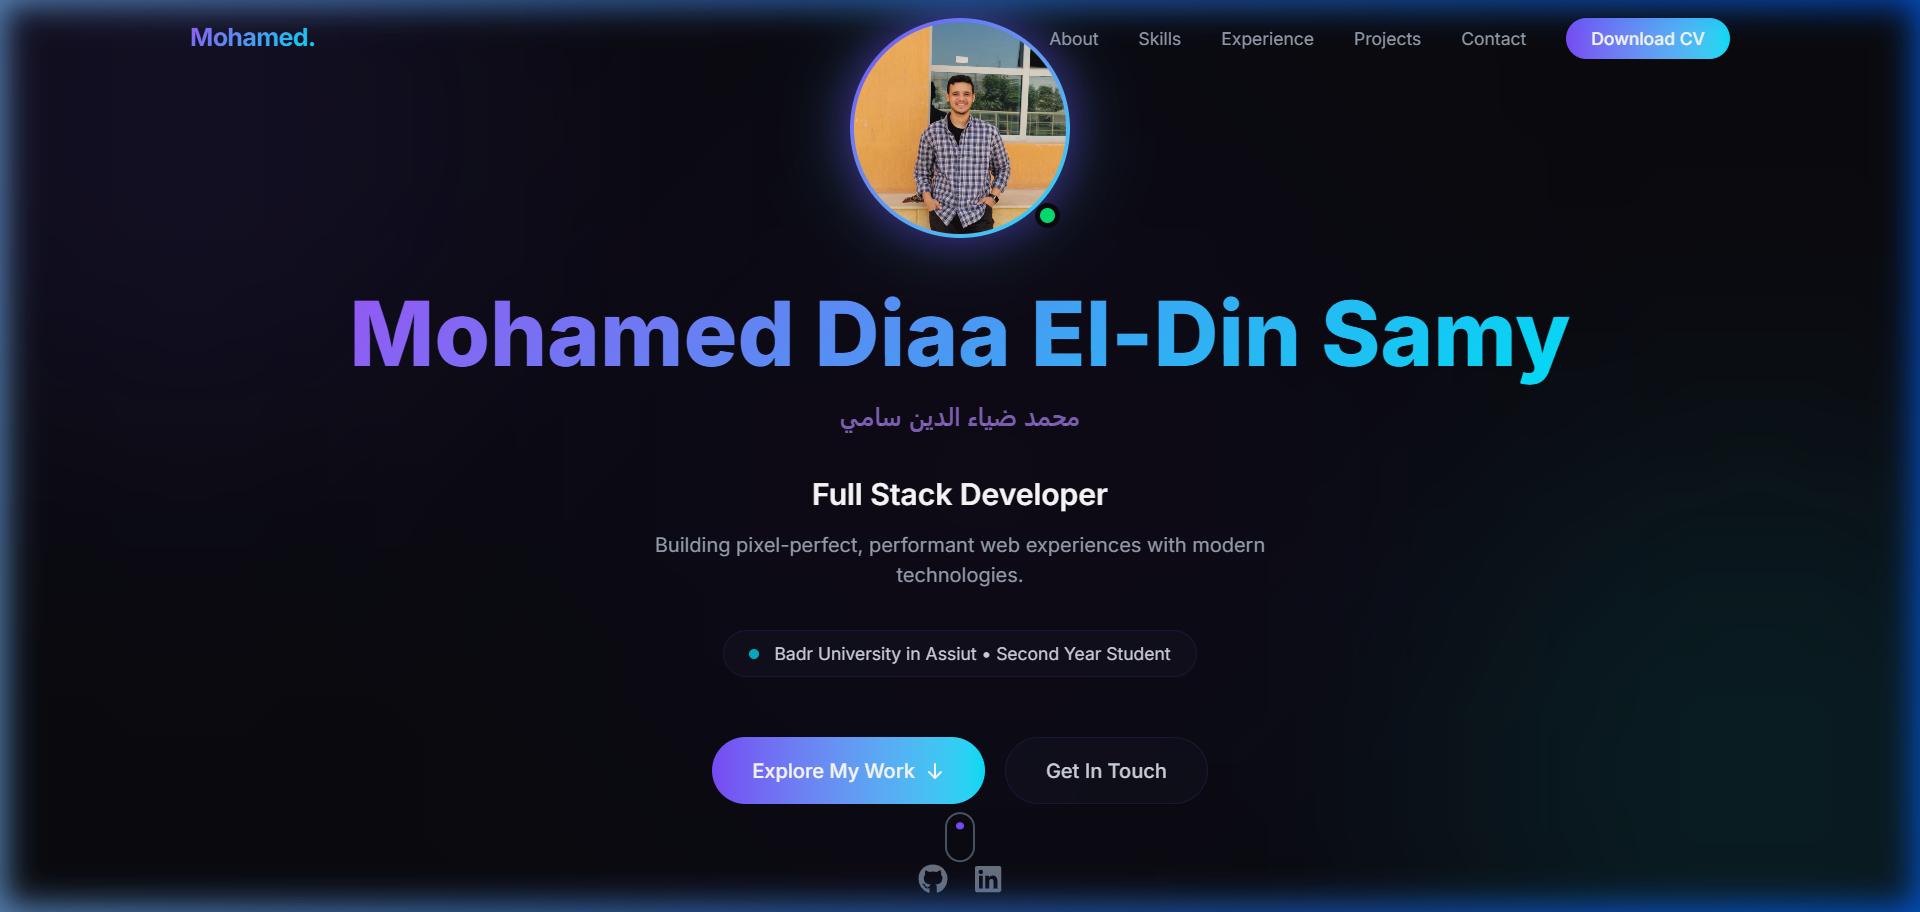
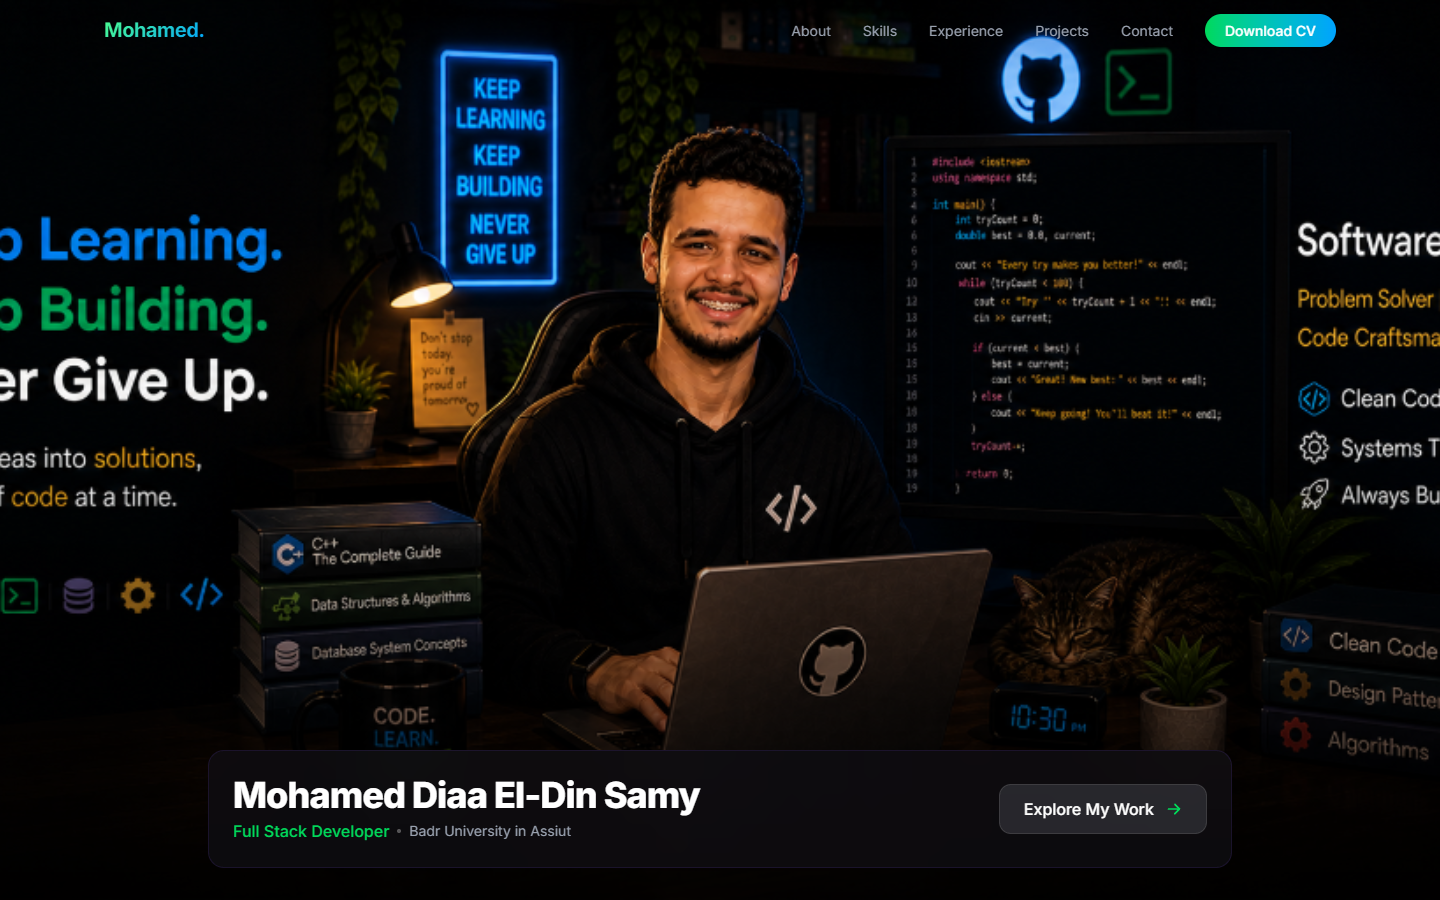
docs: update README with bento grid architecture and new screenshots

diff --git a/README.md b/README.md
@@ -11,9 +11,9 @@
 [![License: MIT](https://img.shields.io/badge/License-MIT-green?style=for-the-badge)](./LICENSE)
 
 **A modern, high-end personal portfolio built with React, Vite, Tailwind CSS v4, and Framer Motion.**
-**Featuring glassmorphism design, scroll-triggered animations, and a fully responsive dark-mode UI.**
+**Featuring a custom Bento Grid design, sleek glassmorphism, scroll-triggered animations, and a fully responsive dark-mode UI.**
 
-[🌐 Live Demo](https://mdiaad03-cloud.github.io/portfolio-/) · [📄 Download CV](./public/Mohamed_Diaa_CV.pdf) · [📬 Contact Me](mailto:mdiaad03@gmail.com)
+[🌐 Live Demo](https://mdiaad03-cloud.github.io/portfolio-/) · [📬 Contact Me](mailto:mdiaad03@gmail.com)
 
 </div>
 
@@ -22,51 +22,16 @@
 ## 📸 Screenshots
 
 ### 🏠 Hero Section
-> The landing view featuring animated gradient orbs, profile avatar, name in English & Arabic, university badge, and call-to-action buttons.
+> A minimalist, full-screen landing view prioritizing the background image. Features a sleek glass dock for the name, title, and call-to-action button, without any intrusive overlapping elements.
 
 ![Hero Section](./docs/screenshots/hero.png)
 
 ---
 
-### 👨💻 About Me
-> A detailed bio highlighting Full Stack Development expertise, MERN stack skills, and ECPC qualification. Accompanied by glass-styled info cards showing location, university, student ID, and achievements.
+### 🍱 Bento Grid Architecture
+> A modern, Apple-style interconnected grid of glass cards replacing traditional stacked sections. Includes an interactive skills marquee, structured CS courses, professional software engineering training timeline, and contact options.
 
-![About Section](./docs/screenshots/about.png)
-
----
-
-### 🛠 Skills & Technologies
-> A responsive grid of 12 technology icons with hover animations. Each card displays the technology's official colored icon.
-
-![Skills Section](./docs/screenshots/skills.png)
-
----
-
-### 💼 Experience
-> Professional training timeline displayed in alternating glass cards with a gradient connector line. Includes training at National Bank of Egypt, Orascom, and El Orman.
-
-![Experience Section](./docs/screenshots/experience.png)
-
----
-
-### 🎓 Education & Certifications
-> Certification cards for Microsoft Python Course, ITI Certificate, and C++ Problem Solving — each with staggered reveal animations.
-
-![Education Section](./docs/screenshots/education.png)
-
----
-
-### 📂 Featured Projects
-> Spotlight project card for **C2A LAP** — a Full Stack E-commerce Dashboard & Store with direct GitHub link and technology tags.
-
-![Projects Section](./docs/screenshots/projects.png)
-
----
-
-### 📬 Contact & Footer
-> Glass-styled contact card with email CTA, social links (GitHub & LinkedIn), quick navigation, and copyright notice.
-
-![Contact Section](./docs/screenshots/contact.png)
+![Bento Grid Section](./docs/screenshots/bento_grid.png)
 
 ---
 
@@ -74,49 +39,38 @@
 
 | Feature | Description |
 |---------|-------------|
-| 🎨 **Glassmorphism Design** | Frosted glass cards with backdrop blur and subtle gradient borders |
-| 🌙 **Dark Mode** | Premium dark theme with deep purple & cyan accent palette |
-| 🎬 **Scroll Animations** | Framer Motion scroll-triggered reveal effects on every section |
-| 📱 **Fully Responsive** | Optimized for mobile, tablet, and desktop viewports |
-| 🖼 **Auto-Update Avatar** | Change one URL in `personalData.js` and the photo updates everywhere |
-| 📄 **Professional CV** | Built-in printable CV page (`/cv.html`) following international ATS standards |
-| 🔗 **Social Integration** | GitHub and LinkedIn links with hover effects |
-| ⬇ **Download CV** | One-click access to a print-ready professional resume |
-| 🧩 **Modular Components** | Clean, reusable React components with clear separation of concerns |
-| 🎯 **SEO Optimized** | Proper meta tags, semantic HTML, and heading hierarchy |
+| 🍱 **Bento Grid Layout** | Modern, compact, and highly customized card-based architecture |
+| 🎨 **Glassmorphism Design** | Frosted glass cards with backdrop blur and subtle glowing borders |
+| 🌙 **Neon Dark Mode** | Premium dark theme with vibrant Neon Green & Cyan accents |
+| 🎬 **Micro-Animations** | Framer Motion scroll-triggered reveal effects and interactive hover states |
+| 📱 **Fully Responsive** | Flexibly adapts to mobile, tablet, and ultra-wide desktop viewports |
+| 🧩 **Streamlined Codebase** | Extremely clean component structure with minimal boilerplate |
+| 🎯 **SEO Optimized** | Proper meta tags, semantic HTML, and high search engine visibility |
 
 ---
 
 ## 🏗 Project Structure
 
-```
+```text
 portfolio/
 ├── public/
-│   ├── cv.html                  # Printable CV (ATS-friendly, no photo)
 │   └── images/
 │       └── profile.jpg          # Profile photo
 ├── src/
 │   ├── main.jsx                 # Entry point
-│   ├── index.css                # Global theme tokens & glass utilities
-│   ├── App.jsx                  # Root component
+│   ├── index.css                # Global theme tokens, custom scrollbars & glass utilities
+│   ├── App.jsx                  # Root component (Simplified)
 │   ├── data/
 │   │   └── personalData.js      # 📌 Central data — edit here to update everything
 │   └── components/
-│       ├── Navbar.jsx            # Fixed glass navbar + mobile hamburger menu
-│       ├── Hero.jsx              # Hero with animated orbs & avatar
-│       ├── About.jsx             # Bio + personal info cards
-│       ├── Skills.jsx            # Tech skills grid with icons
-│       ├── Experience.jsx        # Training timeline
-│       ├── Education.jsx         # Certification cards
-│       ├── Projects.jsx          # Featured project spotlight
-│       ├── Contact.jsx           # Email CTA card
-│       ├── Footer.jsx            # Social links & copyright
-│       ├── SectionWrapper.jsx    # Reusable scroll-animated wrapper
-│       └── SectionHeading.jsx    # Reusable gradient heading
-├── docs/screenshots/             # README screenshots
-├── LICENSE                       # MIT License
-├── package.json
-└── vite.config.js
+│       ├── Navbar.jsx           # Fixed glass navbar + mobile menu
+│       ├── Hero.jsx             # Minimalist full-screen hero with bottom dock
+│       ├── BentoGrid.jsx        # The core masonry grid containing all portfolio sections
+│       └── Footer.jsx           # Copyright and quick links
+├── docs/screenshots/            # README presentation images
+├── LICENSE                      # MIT License
+├── package.json                 # Dependencies and SEO metadata
+└── vite.config.js               # Vite build configuration
 ```
 
 ---
@@ -146,13 +100,15 @@ npm run dev
 
 The app will be running at **http://localhost:5173/**
 
-### Build for Production
+### Build & Deploy
 
 ```bash
+# Build the production files
 npm run build
-```
 
-The optimized build will be in the `dist/` folder.
+# Deploy directly to GitHub Pages
+npm run deploy
+```
 
 ---
 
@@ -165,15 +121,12 @@ All personal data is centralized in **one file**:
 | Field | What it controls |
 |-------|-----------------|
 | `name` | Name displayed in Hero, Navbar, and Footer |
-| `arabicName` | Arabic name shown below the English name |
-| `profileImage` | Avatar photo URL — change once, updates everywhere |
-| `hero.title` | Job title in the Hero section |
-| `skills` | Skills grid items and icons |
-| `experience` | Experience timeline cards |
-| `certifications` | Education & certification cards |
-| `projects` | Featured project cards with GitHub links |
-| `socials` | Social media links (GitHub, LinkedIn) |
-| `contact.email` | Contact email for the CTA button |
+| `about.bio` | Your full detailed biography |
+| `skills` | Tech stack icons displayed in the Marquee card |
+| `experience` | Professional training and internship timeline |
+| `certifications` | Academic courses and CS subjects |
+| `projects` | Featured project spotlight cards |
+| `contact.email` | The target email address for the Gmail compose button |
 
 ---
 
